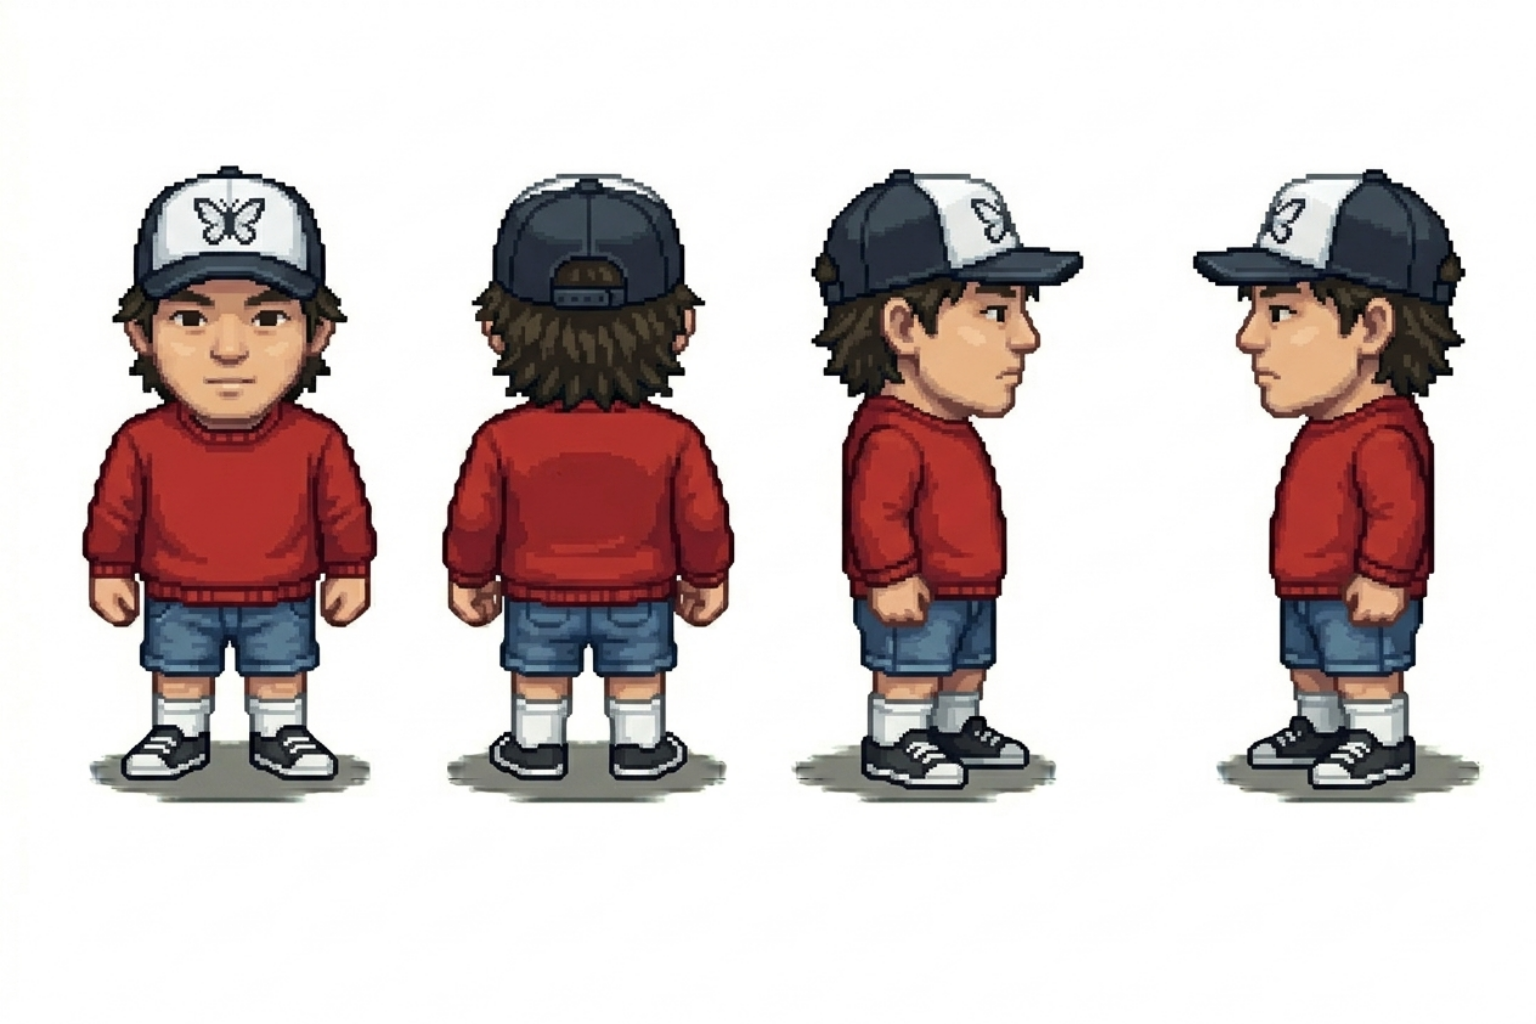
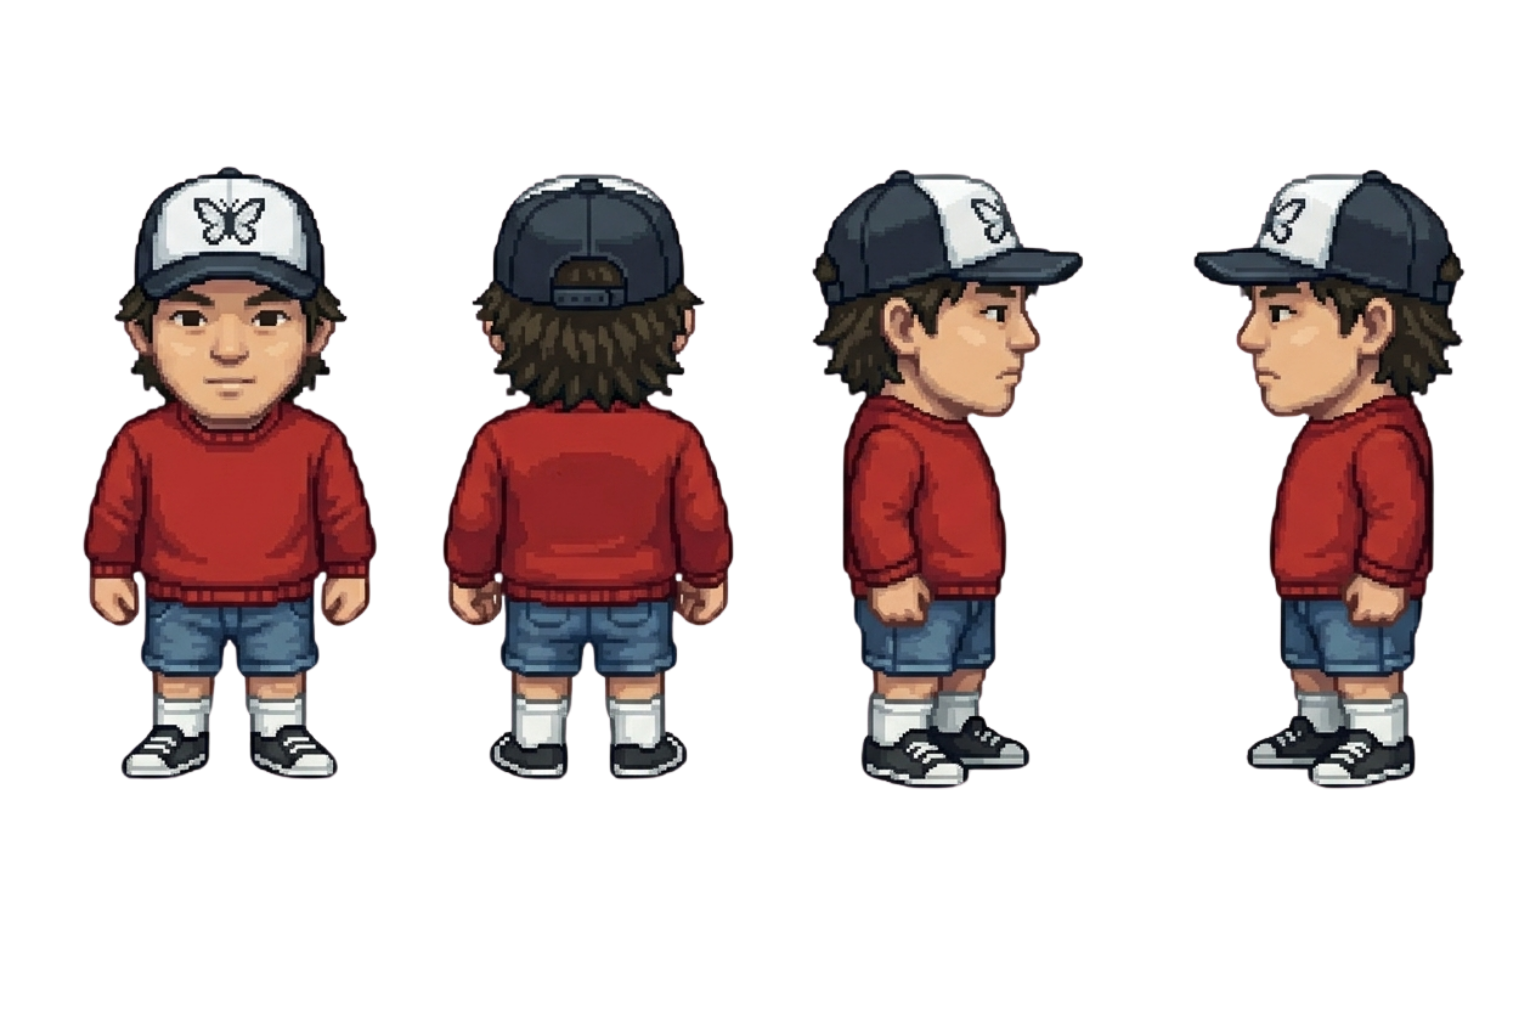
Update Darren sprite and set Agent 5 dialogue to ellipsis.

diff --git a/src/data/gymWeeks.ts b/src/data/gymWeeks.ts
@@ -30,6 +30,10 @@ export type GymFighterConfig = {
   spriteColumns?: number
   battleBg: string
   battleSizeMult?: number
+  /** Shown when this fighter is defeated (player win narration). */
+  losingLine?: string
+  /** Shown when this fighter wins (player loss narration). */
+  winningLine?: string
 }
 
 export type GymWeekScoringMode = 'one-and-done' | 'clear-count'
@@ -180,9 +184,9 @@ export const GYM_WEEKS: readonly GymWeekDefinition[] = [
       spriteColumns: 4,
       battleBg: GYM_BATTLE_BG,
       battleSizeMult: 1.05,
+      losingLine: '...',
       dialogue: {
-        intro:
-          'challenge two. three fights, two henchmen, then me. clear as many times as you can before sunday night.',
+        intro: '...',
         inProgress: "you're mid-run. pick up where you left off or restart from darren.",
         cleared: 'another clear on the board. keep stacking — first clear got your seal.',
         loss: 'back to darren. run it again.',

diff --git a/src/data/npcRegistry.ts b/src/data/npcRegistry.ts
@@ -233,7 +233,8 @@ function buildGymFighterCombatEntry(fighter: GymFighterConfig): NpcCombatEntry {
     telegraphFlavor: fighter.telegraphFlavor,
     guardCounter: fighter.guardCounter,
     enemyGuardPierce: fighter.enemyGuardPierce,
-    losingLine: '',
+    losingLine: fighter.losingLine ?? '',
+    winningLine: fighter.winningLine,
     spriteSrc: fighter.spriteSrc,
     battleLocation: 'five',
     battleBg: fighter.battleBg,
